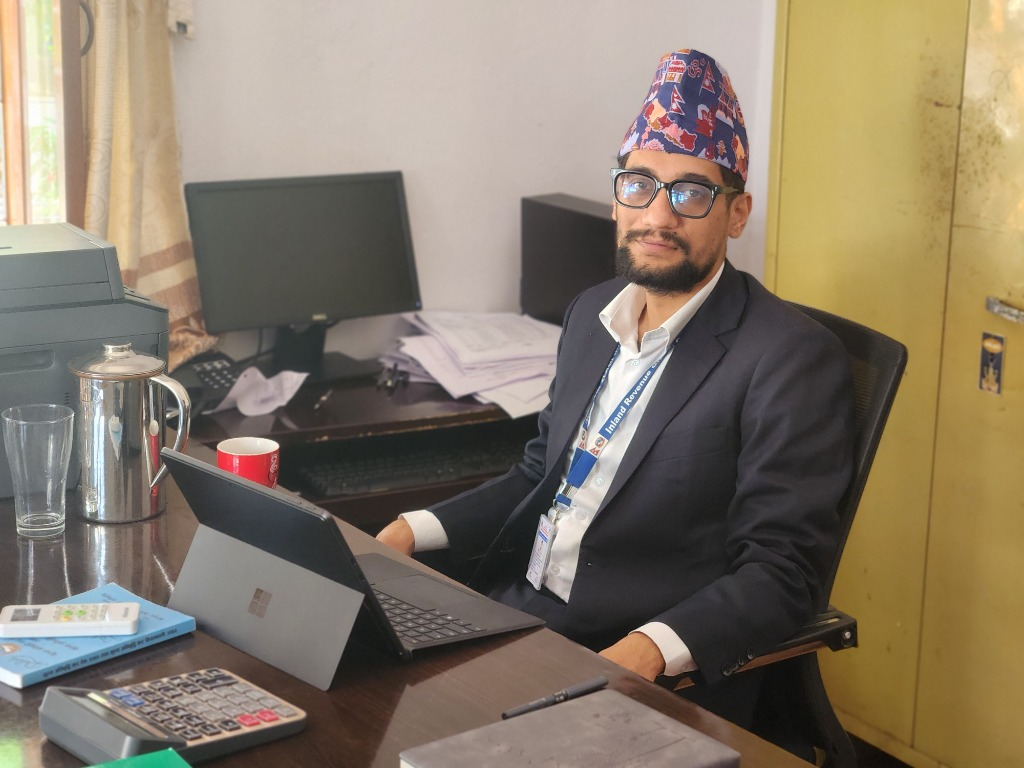
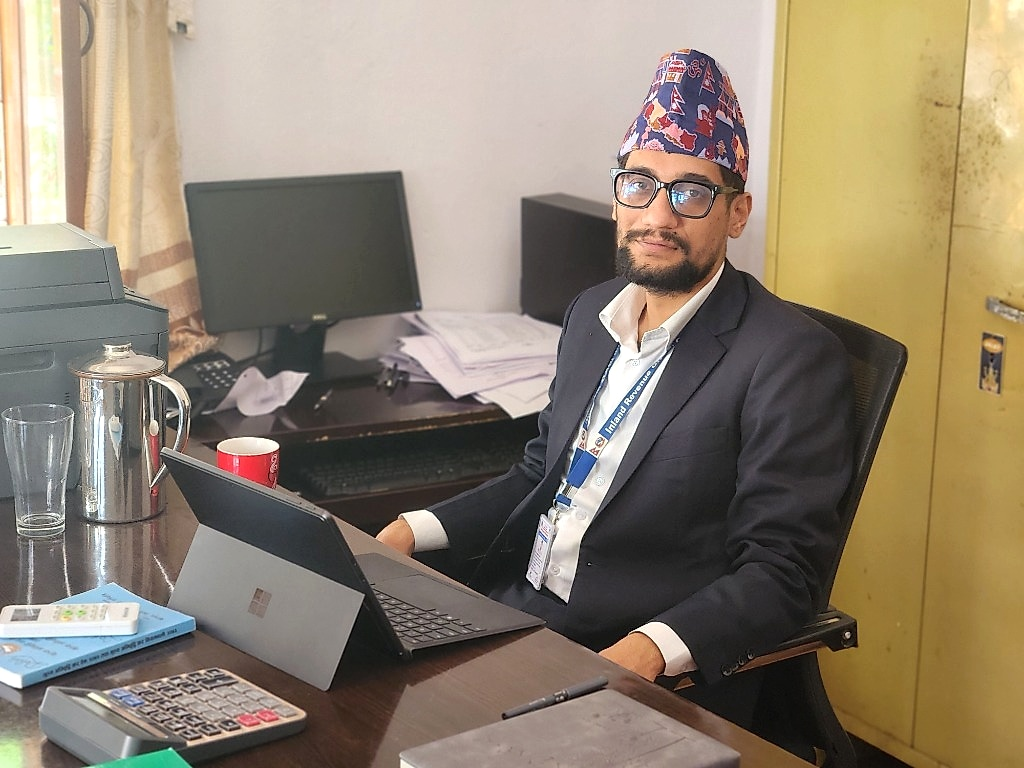
Enhance portrait photo with lighter color tone, shadow lift, and compact elegant framing

diff --git a/src/index.css b/src/index.css
@@ -965,16 +965,16 @@ a {
 /* Rectangular Portrait Frame */
 .editorial-portrait-wrapper {
   position: relative;
-  max-width: 340px;
+  max-width: 275px;
   margin-left: auto;
 }
 
 .portrait-red-accent-line {
   position: absolute;
-  top: 14px;
-  left: -12px;
+  top: 12px;
+  left: -10px;
   width: 3px;
-  height: calc(100% - 28px);
+  height: calc(100% - 24px);
   background: var(--crimson);
   border-radius: 2px;
   z-index: 2;
@@ -984,11 +984,13 @@ a {
   position: relative;
   width: 100%;
   aspect-ratio: 4 / 5;
-  background: var(--bg-elevated);
-  border: 1px solid var(--border-light);
-  box-shadow: var(--shadow-card);
+  background: #f8fafc;
+  border: 1px solid rgba(12, 35, 64, 0.1);
+  box-shadow: 
+    0 12px 30px -8px rgba(0, 31, 63, 0.08),
+    0 2px 6px rgba(0, 0, 0, 0.02);
   overflow: hidden;
-  border-radius: var(--radius-sm);
+  border-radius: 12px;
 }
 
 .editorial-portrait-picture,
@@ -1020,6 +1022,13 @@ a {
   object-fit: cover;
   object-position: center top;
   display: block;
+  filter: brightness(1.03) contrast(1.02) saturate(1.02);
+  transition: transform 0.4s ease, filter 0.4s ease;
+}
+
+.editorial-portrait-frame:hover .editorial-portrait-image {
+  transform: scale(1.02);
+  filter: brightness(1.05) contrast(1.02) saturate(1.04);
 }
 
 .portrait-institutional-ribbon {
@@ -1027,12 +1036,18 @@ a {
   bottom: 0;
   left: 0;
   right: 0;
-  background: linear-gradient(to top, rgba(0, 31, 63, 0.94) 0%, rgba(0, 31, 63, 0.75) 75%, transparent 100%);
-  padding: 20px 14px 10px 14px;
+  background: linear-gradient(to top, rgba(12, 35, 64, 0.90) 0%, rgba(12, 35, 64, 0.60) 65%, transparent 100%);
+  padding: 16px 12px 8px 12px;
   display: flex;
   align-items: center;
-  gap: 8px;
+  gap: 7px;
   color: #ffffff;
+}
+
+[data-theme='dark'] .editorial-portrait-frame {
+  background: #0f172a;
+  border-color: rgba(255, 255, 255, 0.12);
+  box-shadow: 0 12px 36px -8px rgba(0, 0, 0, 0.6);
 }
 
 .ribbon-text {
@@ -3643,7 +3658,7 @@ a {
   }
 
   .editorial-portrait-wrapper {
-    max-width: 300px;
+    max-width: 260px;
     margin-inline: auto;
   }
 
@@ -13130,13 +13145,13 @@ a {
 .about-portrait-showcase {
   position: relative;
   width: 100%;
-  max-width: 380px;
-  border-radius: 14px;
+  max-width: 285px;
+  border-radius: 12px;
   background: var(--card-bg, #ffffff);
-  border: 1px solid rgba(12, 35, 64, 0.12);
+  border: 1px solid rgba(12, 35, 64, 0.1);
   box-shadow: 
-    0 20px 48px -12px rgba(0, 35, 80, 0.12),
-    0 2px 6px rgba(0, 0, 0, 0.04);
+    0 14px 34px -10px rgba(0, 35, 80, 0.08),
+    0 2px 6px rgba(0, 0, 0, 0.02);
   overflow: hidden;
   transition: transform 0.4s cubic-bezier(0.16, 1, 0.3, 1), box-shadow 0.4s ease;
 }
@@ -13150,18 +13165,18 @@ a {
 }
 
 .about-portrait-showcase:hover {
-  transform: translateY(-4px);
+  transform: translateY(-3px);
   box-shadow: 
-    0 28px 60px -14px rgba(0, 35, 80, 0.18),
-    0 4px 12px rgba(0, 0, 0, 0.06);
+    0 20px 44px -12px rgba(0, 35, 80, 0.14),
+    0 4px 10px rgba(0, 0, 0, 0.04);
 }
 
 .portrait-image-frame {
   position: relative;
   width: 100%;
-  height: 440px;
+  height: 350px;
   overflow: hidden;
-  background: #08111d;
+  background: #f1f5f9;
   display: flex;
   align-items: center;
   justify-content: center;
@@ -13172,23 +13187,24 @@ a {
   height: 100%;
   object-fit: cover;
   object-position: top center;
-  transition: transform 0.5s cubic-bezier(0.16, 1, 0.3, 1);
-  filter: contrast(1.02) brightness(1.01);
+  transition: transform 0.5s cubic-bezier(0.16, 1, 0.3, 1), filter 0.4s ease;
+  filter: contrast(1.02) brightness(1.03) saturate(1.02);
 }
 
 .about-portrait-showcase:hover .portrait-main-img {
-  transform: scale(1.025);
+  transform: scale(1.02);
+  filter: contrast(1.02) brightness(1.05) saturate(1.04);
 }
 
 .portrait-subtle-glow {
   position: absolute;
   inset: 0;
-  background: linear-gradient(180deg, rgba(0, 0, 0, 0) 65%, rgba(10, 20, 35, 0.6) 100%);
+  background: linear-gradient(180deg, rgba(0, 0, 0, 0) 70%, rgba(12, 35, 64, 0.20) 100%);
   pointer-events: none;
 }
 
 .portrait-caption-strip {
-  padding: 14px 20px;
+  padding: 10px 14px;
   background: var(--card-bg, #ffffff);
   border-top: 1px solid rgba(12, 35, 64, 0.08);
   display: flex;
